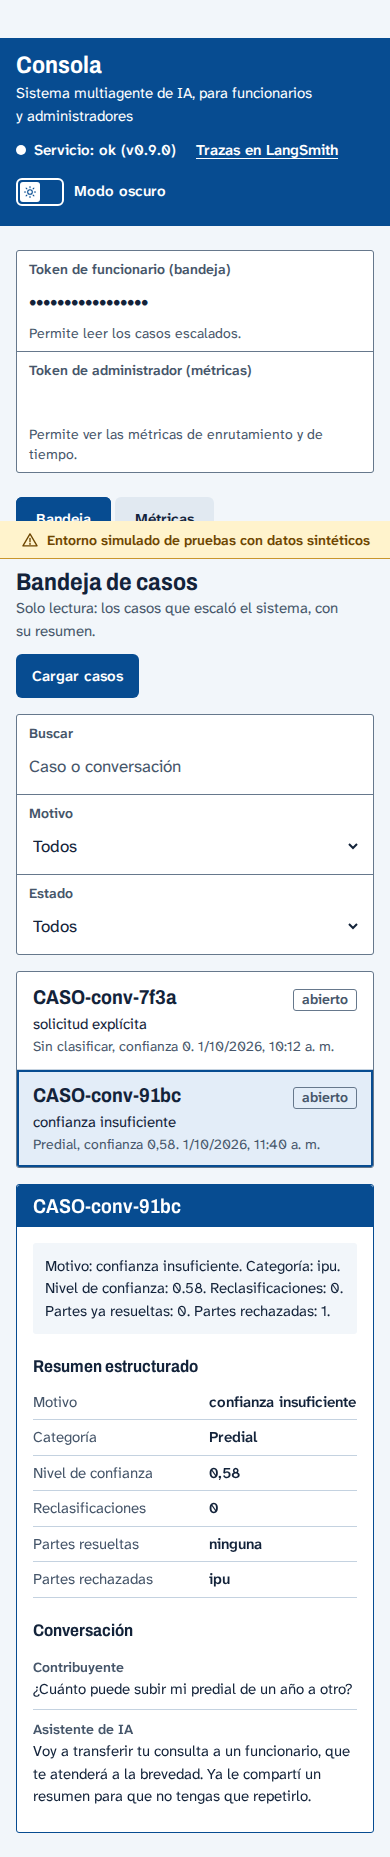
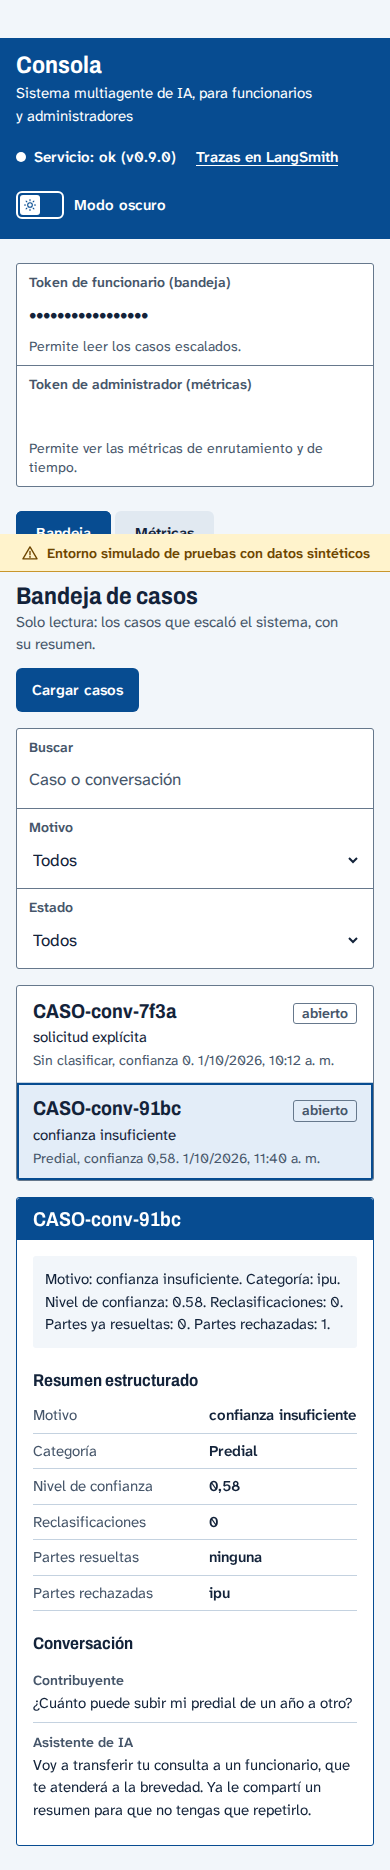
fix(web): corregir los hallazgos de la revisión del rediseño
El rótulo fijo ya no tapa el foco (scroll-padding-top), el enlace de las
trazas mide 44 px, el interruptor subraya su nombre al pasar el puntero y
deja de tener transiciones (el cambio de tema es instantáneo), y
DESIGN.md nombra el encabezado de portal.

Refs: RF-UI-01 · Widget embebible

Changed region(s): [[0.0, 0.0312, 1.0, 0.9995], [0.5231, 0.7496, 0.9231, 0.8745], [0.8923, 0.4997, 0.9231, 0.531]]

diff --git a/web/src/estilos.css b/web/src/estilos.css
@@ -140,7 +140,10 @@
   :root[data-tema-pendiente] body {
     visibility: hidden;
   }
+  /* El rótulo fijo no tapa lo que recibe el foco ni lo que se desplaza a la vista (hasta dos
+     líneas en el celular). */
   html {
+    scroll-padding-top: 4.5rem;
     font-family: var(--font-texto);
     color: var(--color-tinta);
     background: var(--color-papel);
@@ -175,7 +178,8 @@
     outline: 3px solid var(--color-sello-texto);
     outline-offset: 2px;
   }
-  /* …y resaltador sobre el azul de sello (cabecera del widget, bandas y pestañas). */
+  /* …y resaltador sobre el azul de sello (encabezado de portal, cabecera del widget, bandas y
+     pestañas). */
   .sobre-oscuro :focus-visible {
     outline-color: var(--color-resaltador);
   }
@@ -232,10 +236,11 @@
     height: 1.75rem;
     border: 2px solid var(--color-blanco);
     border-radius: var(--radius-control);
-    transition: background-color 150ms var(--ease-salida);
   }
-  .interruptor:hover .interruptor-riel {
-    background: var(--color-sello-fuerte);
+  /* Al pasar el puntero se subraya el nombre, encendido o apagado, como un enlace. */
+  .interruptor:hover {
+    text-decoration: underline;
+    text-underline-offset: 0.2em;
   }
   .interruptor[aria-checked="true"] .interruptor-riel {
     background: var(--color-tinta-oscura);
@@ -251,7 +256,6 @@
     border-radius: var(--radius-casilla);
     background: var(--color-blanco);
     color: var(--color-sello);
-    transition: translate 150ms var(--ease-salida);
   }
   .interruptor[aria-checked="true"] .interruptor-perilla {
     translate: 1.25rem 0;
@@ -366,9 +370,6 @@
   }
   button:not(:disabled):active {
     scale: none;
-  }
-  .interruptor-perilla {
-    transition: none;
   }
 }
 @keyframes aparecer {

diff --git a/web/src/consola/Consola.jsx b/web/src/consola/Consola.jsx
@@ -253,7 +253,7 @@ function Bandeja({ token }) {
               data-prueba="detalle"
               aria-labelledby="titulo-detalle"
             >
-              <h3 id="titulo-detalle" ref={tituloDetalle} tabIndex={-1} className="banda scroll-mt-4 px-4 py-2 text-lg">
+              <h3 id="titulo-detalle" ref={tituloDetalle} tabIndex={-1} className="banda px-4 py-2 text-lg">
                 {detalleVisible.id_caso}
               </h3>
               <div className="space-y-5 p-4 md:p-5">
@@ -506,7 +506,7 @@ export default function Consola() {
           Servicio: {salud?.estado ?? "…"}
           {salud?.version ? ` (v${salud.version})` : ""}
         </span>
-        <a href={LANGSMITH} target="_blank" rel="noreferrer" className="inline-block py-1 text-sm font-semibold text-blanco underline">
+        <a href={LANGSMITH} target="_blank" rel="noreferrer" className="inline-flex min-h-11 items-center text-sm font-semibold text-blanco underline">
           Trazas en LangSmith
           <span className="sr-only"> (se abre en otra pestaña)</span>
         </a>

diff --git a/web/DESIGN.md b/web/DESIGN.md
@@ -108,8 +108,8 @@ el lenguaje claro. Hay modo claro y modo oscuro, con los mismos colores.
 
 - El fondo de las páginas es `papel`; lo que se lee o se llena va en `hoja`. Los neutros salen
   del azul.
-- `sello` es el relleno de las bandas, los botones principales, la cabecera del widget y la
-  pestaña del asistente de IA, siempre con texto `blanco`. Es tinta plana.
+- `sello` es el relleno del encabezado de portal, las bandas, los botones principales, la cabecera
+  del widget y la pestaña del asistente de IA, siempre con texto `blanco`. Es tinta plana.
 - `sello-texto` es el azul para texto, enlaces, el anillo de foco sobre `papel` y `hoja`, y el
   anillo del caso elegido. En el modo claro coincide con `sello`; en el oscuro es más claro.
 - El verde es del funcionario y de los estados correctos: `funcionario` como relleno con texto
@@ -164,8 +164,8 @@ El modo claro son los valores del frontmatter. El modo oscuro reemplaza estos to
 
 - `titulo` (Archivo, semicondensada) se usa en los títulos, las bandas, los identificadores de
   caso y las cifras grandes.
-- `texto` (Atkinson Hyperlegible Next) se usa en todo lo demás, incluido el rótulo. Los mensajes del widget van en
-  `base`, para lectores mayores o con baja visión.
+- `texto` (Atkinson Hyperlegible Next) se usa en todo lo demás, incluido el rótulo. Los mensajes
+  del widget van en `base`, para lectores mayores o con baja visión.
 - Los títulos se escriben en oración, nunca en mayúsculas espaciadas.
 - Las tablas y los identificadores llevan cifras tabulares.
 - Las fuentes son autoalojadas, con fontsource y sin CDN.
@@ -208,8 +208,8 @@ secciones se separan con bordes, bandas y renglones.
   En la consola lleva también el estado del servicio (punto blanco lleno si está bien y vacío si no)
   y el enlace a las trazas.
 - **Banda:** el título de un bloque (sesión simulada, caso, matriz, tabla por categoría) en un
-  rectángulo de `sello` con texto `blanco`. Las bandas y el rótulo concentran la audacia de la
-  página; lo demás queda en tinta sobre papel.
+  rectángulo de `sello` con texto `blanco`. Las bandas y el encabezado de portal concentran la
+  audacia de la página; lo demás queda en tinta sobre papel.
 - **Casilla:** el campo con su rótulo pequeño arriba, dentro del borde. El foco rodea la casilla
   entera.
 - **Pestaña de quien habla:** el nombre del interlocutor, como pestaña de carpeta pegada a su
